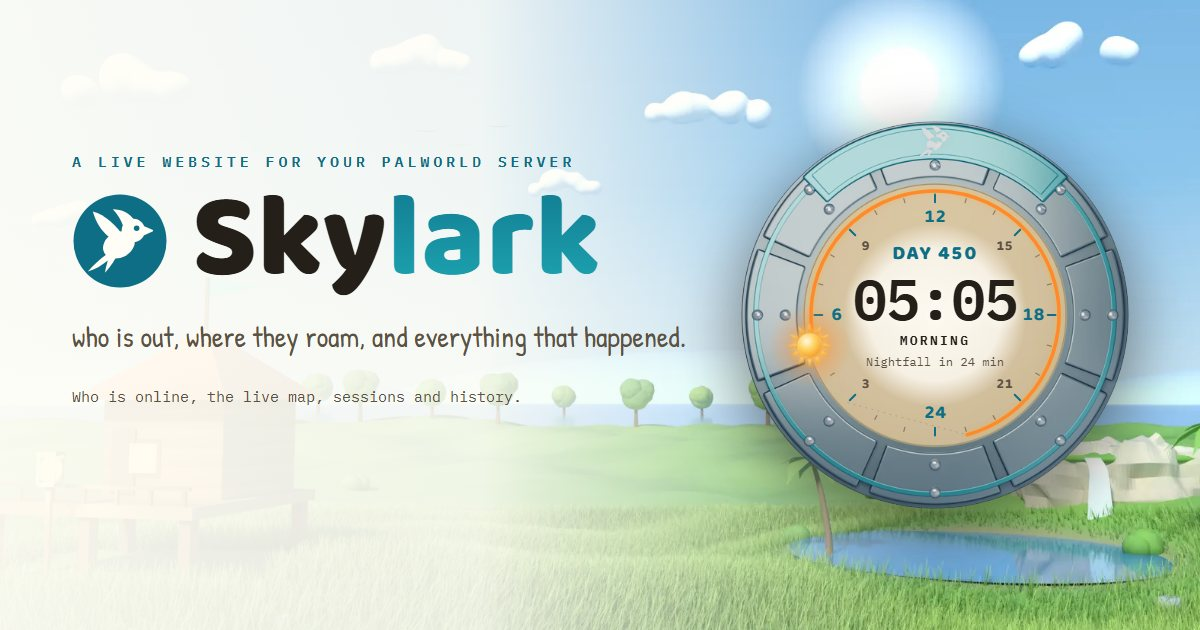
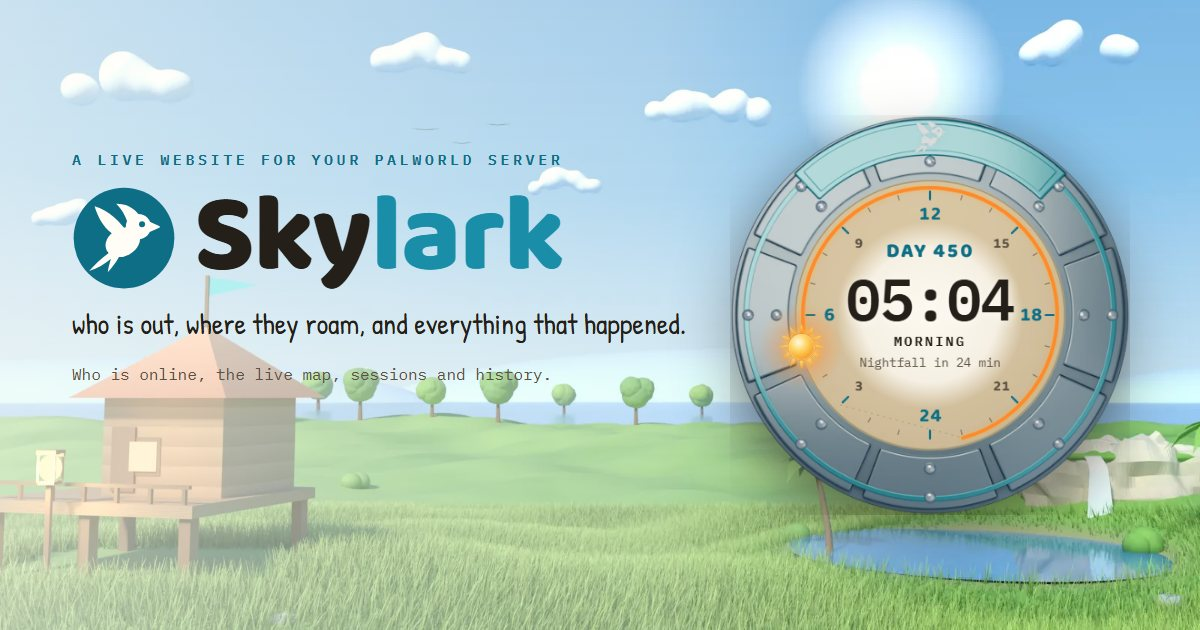
Pictures of the Palpedia and the habitat map, and the README says so
The README and the landing page get a row for the Palpedia: a player's
card with the tiles and the list of what is still missing, and the map
showing where Helzephyr lives by day and at night. Every picture is
retaken from mock mode at the framing of the last set, and the banner
and the social card are composed again over the field with the live
dial. The map page no longer stretches the map frame to the height of
the side column, which showed a band of water under the map once the
Layers card grew.

Closes #33.

diff --git a/site/index.html b/site/index.html
@@ -377,7 +377,7 @@
         <h2 id="unique">Only in Skylark</h2>
         <div class="features">
           <div class="feature">
-            <img class="shot" src="assets/map.jpg" width="1210" height="880" alt="The live map of the islands with players, bases and wild Pals" loading="lazy" />
+            <img class="shot" src="assets/map.jpg" width="1210" height="854" alt="The live map of the islands with players, bases and wild Pals" loading="lazy" />
             <h3>The islands, live</h3>
             <p>An original map drawn from the game's own region data, with the Great Eagle Statues and towers. Players move on it as they play, next to the bases, the wild Pals around them and the day's knockouts.</p>
           </div>
@@ -385,6 +385,16 @@
             <img class="shot" src="assets/player.jpg" width="1210" height="880" alt="A player page with the Pals out with them, their progress from the world save and the trail of a session" loading="lazy" />
             <h3>Player pages</h3>
             <p>Playtime, sessions, level history, knockouts and distance travelled for everyone who plays, with the Pals out with them right now and the trail of each session on the map.</p>
+          </div>
+          <div class="feature">
+            <img class="shot" src="assets/palpedia.jpg" width="576" height="770" alt="A player's Palpedia: every entry as a tile, caught ones in colour, and the list of what is still missing with how each is obtained" loading="lazy" />
+            <h3>The Palpedia, on your server</h3>
+            <p>Every entry each player has caught, from the world save, and what is still missing, with how each species is obtained from the game's own tables: in the wild by day or night, from eggs, by fishing, from cages, raids or breeding. Guild pages show the same across the members, and who has what.</p>
+          </div>
+          <div class="feature">
+            <img class="shot" src="assets/habitat.jpg" width="1210" height="854" alt="The live map showing where Helzephyr lives, by day and at night, from the game's habitat data" loading="lazy" />
+            <h3>Where the missing ones live</h3>
+            <p>Pick a Pal on the map and see where it lives, by day and at night, with its wild levels, drawn from the game's own habitat data onto Skylark's map. A missing entry on a player's page takes you straight there.</p>
           </div>
           <div class="feature">
             <h3>Sun dial</h3>
@@ -401,7 +411,7 @@
         <h2 id="also">Also on the site</h2>
         <ul class="plain">
           <li>Who is online, with their level, health, guild and Pals, and everything that happened today</li>
-          <li>Guilds with their members and bases, chat, and a live activity feed</li>
+          <li>Guilds with their members and bases, their Palpedia, chat, and a live activity feed</li>
           <li>The world's settings, the server's history and this week's leaders</li>
           <li>An admin area for the collector, server actions (announce, save, shut down with a countdown, kick, ban), backups and a history rebuild</li>
           <li>Switches to hide positions, bases, Pals, chat or guild chat, and settings for how long raw data is kept</li>

diff --git a/web/src/routes/map/+page.svelte b/web/src/routes/map/+page.svelte
@@ -53,7 +53,7 @@
   {#if !world && !data.map.ok}
     <ErrorNote error={data.map.error} what="the map" />
   {:else}
-    <div class="grid grid-cols-1 gap-6 lg:grid-cols-[minmax(0,1fr)_17rem]">
+    <div class="grid grid-cols-1 gap-6 lg:grid-cols-[minmax(0,1fr)_17rem] lg:items-start">
       <WorldMap
         world={shown}
         landmarks={showLandmarks}

diff --git a/README.md b/README.md
@@ -39,10 +39,25 @@ Skylark gives your Palworld dedicated server its own website. A small collector 
 
 Playtime, sessions, level history, knockouts and distance travelled for everyone who plays, with the Pals out with them right now, the trail of each session on the map, and from the world save their Palpedia, captures and boss records.
 
+<table>
+  <tr>
+    <td width="34%" valign="top">
+      <img src="site/assets/palpedia.jpg" alt="A player's Palpedia: every entry as a tile, caught ones in colour, and the list of what is still missing with how each is obtained">
+      <h3>The Palpedia, on your server</h3>
+      Every entry each player has caught, from the world save, and what is still missing, with how each species is obtained from the game's own tables: in the wild by day or night, from eggs, by fishing, from cages, raids or breeding. Guild pages show the same across the members, and who has what.
+    </td>
+    <td width="66%" valign="top">
+      <img src="site/assets/habitat.jpg" alt="The live map showing where Helzephyr lives, by day and at night, from the game's habitat data">
+      <h3>Where the missing ones live</h3>
+      Pick a Pal on the map and see where it lives, by day and at night, with its wild levels, drawn from the game's own habitat data onto Skylark's map. A missing entry on a player's page takes you straight there.
+    </td>
+  </tr>
+</table>
+
 ## Also on the site
 
 - Who is online, with their level, health, guild and Pals, and everything that happened today
-- Guilds with their members, roles and bases and the Pals working there, chat, and a live activity feed
+- Guilds with their members, roles and bases and the Pals working there, their Palpedia, chat, and a live activity feed
 - The world's settings, the server's history and this week's leaders
 - An admin area for the collector, server actions (announce, save, shut down with a countdown, kick, ban), backups and a history rebuild
 - Switches to hide positions, bases, Pals, chat or guild chat
